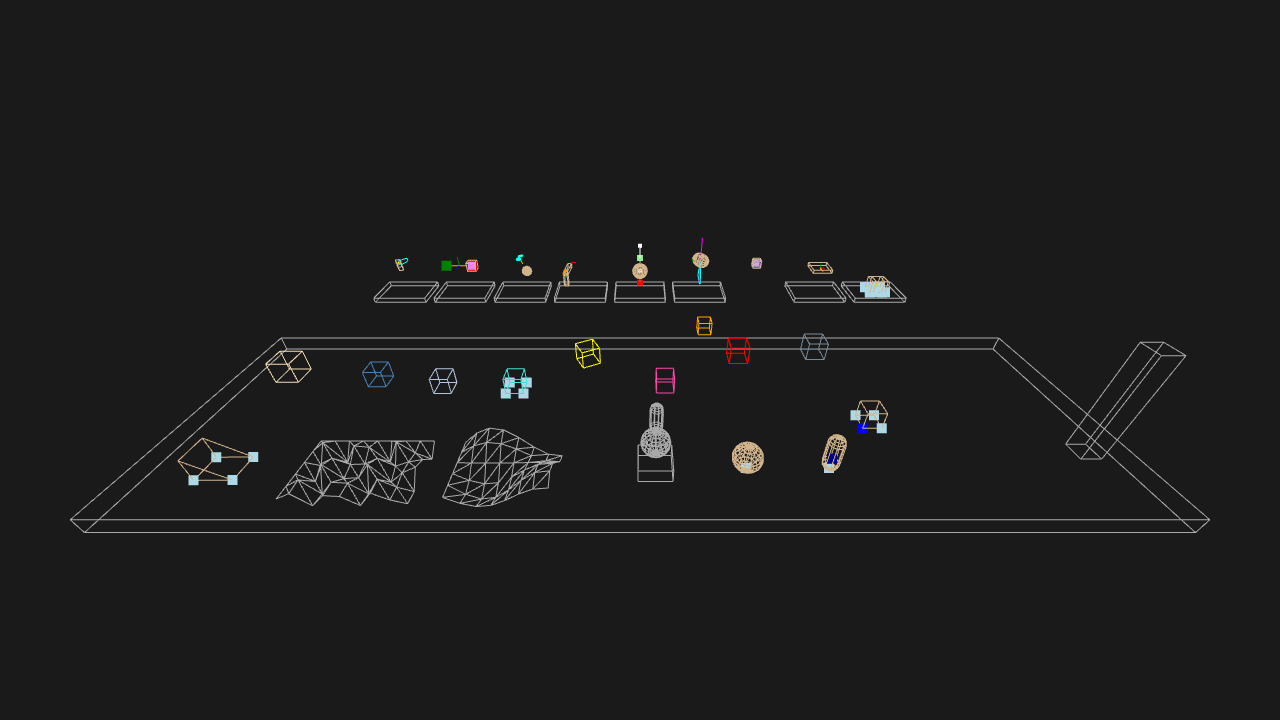
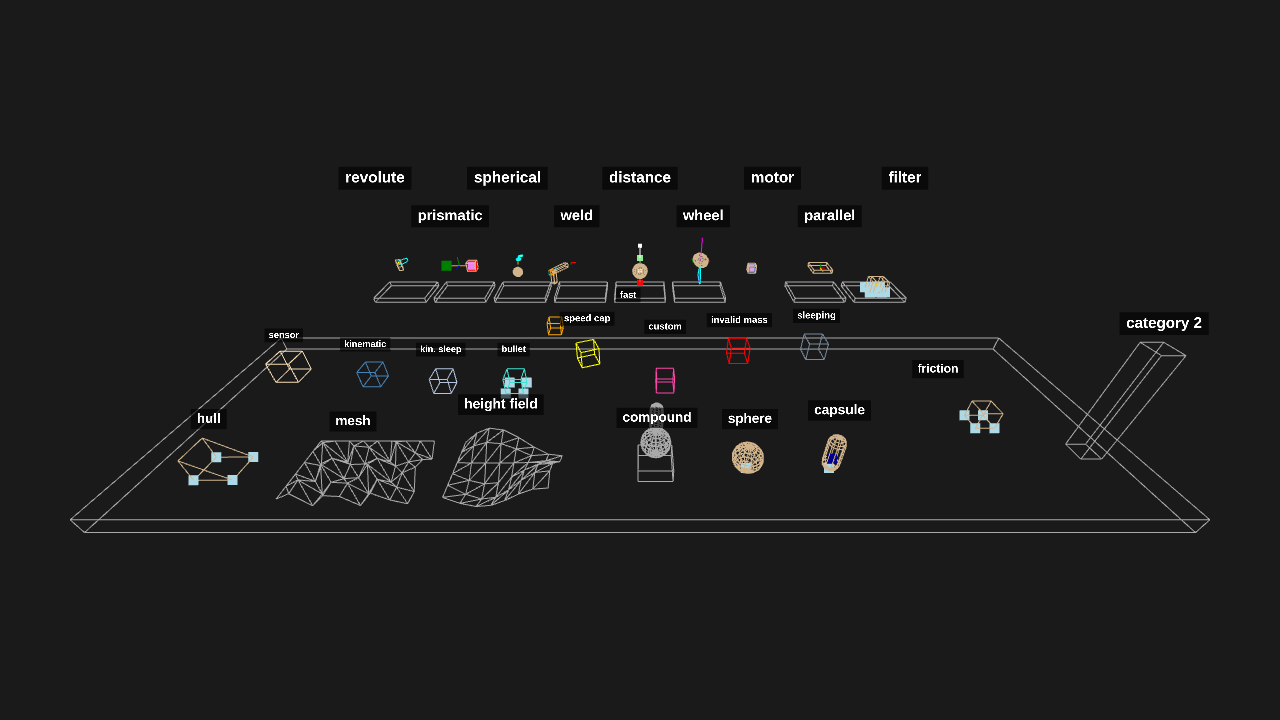
Label each shape, joint, and body state in the debug-draw example.
World-space sprites sit above the objects they name so the showcase reads without the GUI.

diff --git a/examples/src/example-debug-draw.ts b/examples/src/example-debug-draw.ts
@@ -84,6 +84,50 @@ function frame(position: b3Vec3, quaternion: b3Quat) {
 	return { position, quaternion };
 }
 
+// Names sit in the world, just above the thing they describe. The sprite's
+// center.y is 0, so `y` is the bottom of the label. Fixed positions: the fast
+// box, the slide, and the kinematic mover all move under a stationary tag.
+function makeLabel(
+	text: string,
+	x: number,
+	y: number,
+	z: number,
+	height: number,
+): void {
+	const canvas = document.createElement('canvas');
+	const ctx = canvas.getContext('2d')!;
+	const font = 'bold 64px sans-serif';
+	ctx.font = font;
+	const padX = 28;
+	const metrics = ctx.measureText(text);
+	canvas.width = Math.ceil(metrics.width + padX * 2);
+	canvas.height = 96;
+	ctx.font = font;
+	ctx.fillStyle = 'rgba(0, 0, 0, 0.62)';
+	ctx.fillRect(0, 0, canvas.width, canvas.height);
+	ctx.fillStyle = '#ffffff';
+	ctx.textAlign = 'center';
+	ctx.textBaseline = 'middle';
+	ctx.fillText(text, canvas.width / 2, canvas.height / 2);
+	const texture = new THREE.CanvasTexture(canvas);
+	texture.colorSpace = THREE.SRGBColorSpace;
+	texture.generateMipmaps = false;
+	texture.minFilter = THREE.LinearFilter;
+	texture.magFilter = THREE.LinearFilter;
+	const material = new THREE.SpriteMaterial({
+		map: texture,
+		transparent: true,
+		depthTest: false,
+		depthWrite: false,
+	});
+	const sprite = new THREE.Sprite(material);
+	sprite.center.set(0.5, 0);
+	sprite.scale.set(height * (canvas.width / canvas.height), height, 1);
+	sprite.position.set(x, y, z);
+	sprite.renderOrder = 10;
+	app.scene.add(sprite);
+}
+
 // Ground covers the shape gallery and the state row. The joint row is past its
 // far edge, on its own platforms, so a drawing-bounds box can drop just that row.
 b3.b3CreateBoxShape(
@@ -440,6 +484,45 @@ wheel(jointX[5]);
 motor(jointX[6]);
 parallel(jointX[7]);
 filterJoint(jointX[8]);
+
+// Shape gallery, in front. x is shifted toward the camera axis so a tag
+// raised above its shape still sits over that shape on screen.
+makeLabel('hull', -10.67, 1.41, 4, 0.5);
+makeLabel('mesh', -7.13, 1.33, 4, 0.5);
+makeLabel('height field', -3.36, 1.88, 4, 0.5);
+makeLabel('compound', 0.42, 1.45, 4, 0.5);
+makeLabel('sphere', 2.72, 1.41, 4, 0.5);
+makeLabel('capsule', 4.87, 1.69, 4, 0.5);
+makeLabel('friction', 8.23, 1.62, 2.2, 0.5);
+makeLabel('category 2', 11.99, 3.78, 3.4, 0.52);
+
+// Body-state colours. The fast box shuttles behind this row, so its tag sits on the lane.
+makeLabel('sensor', -10.77, 1.76, 0.6, 0.42);
+makeLabel('kinematic', -8.42, 1.43, 0.6, 0.42);
+makeLabel('kin. sleep', -6.15, 1.24, 0.6, 0.42);
+makeLabel('bullet', -3.9, 1.24, 0.6, 0.42);
+makeLabel('fast', -0.39, 2.11, -1.3, 0.46);
+makeLabel('speed cap', -1.56, 2.34, 0.6, 0.42);
+makeLabel('custom', 0.75, 2.06, 0.6, 0.42);
+makeLabel('invalid mass', 2.94, 2.29, 0.6, 0.42);
+makeLabel('sleeping', 5.19, 2.44, 0.6, 0.42);
+
+// Joint row, far back. Alternate heights so the longer names don't touch.
+const jointNames = [
+	'revolute',
+	'prismatic',
+	'spherical',
+	'weld',
+	'distance',
+	'wheel',
+	'motor',
+	'parallel',
+	'filter',
+];
+for (let i = 0; i < jointNames.length; i++) {
+	const high = i % 2 === 0;
+	makeLabel(jointNames[i], jointX[i], high ? 4.35 : 2.85, JOINT_Z, 0.9);
+}
 
 const debug = createDebugRenderer(b3, world, {
 	THREE,

diff --git a/CHANGELOG.md b/CHANGELOG.md
@@ -8,7 +8,7 @@ Debug drawing. `getDebugDraw` runs one `b3World_Draw` pass per role into a reusa
 - Each shape is tagged with a `DebugShapeState` (`static`, `kinematic`, `kinematicSleeping`, `awake`, `sleeping`, `sensor`, `disabled`, `fast`, `bullet`, `speedCapped`, `timeOfImpact`, `invalidMass`, `custom`) taken from box3d's packed debug colour.
 - `getDebugGeometry(id)` returns the cached triangles, plus sphere and capsule parameters, or `null` once the shape is destroyed. The views alias the wasm heap; copy them to keep them.
 - `import { createDebugRenderer } from 'box3d.js/three'` draws the buffer. Pass the page's own `THREE` (`three` or `three/webgpu`) and a parent `Object3D`. `update()` reads `settings` live. `normalScale` stretches contact-normal segments; box3d draws those at 0.3 length units.
-- New example: Debug Draw. It includes every shape type and every joint type, a sliding contact, and the body states box3d colours, so each debug toggle and the mask and bounds filters change the overlay.
+- New example: Debug Draw. It includes every shape type and every joint type, a sliding contact, and the body states box3d colours, so each debug toggle and the mask and bounds filters change the overlay. World-space labels name each shape, joint, and body state.
 
 ## v0.2.0
 
